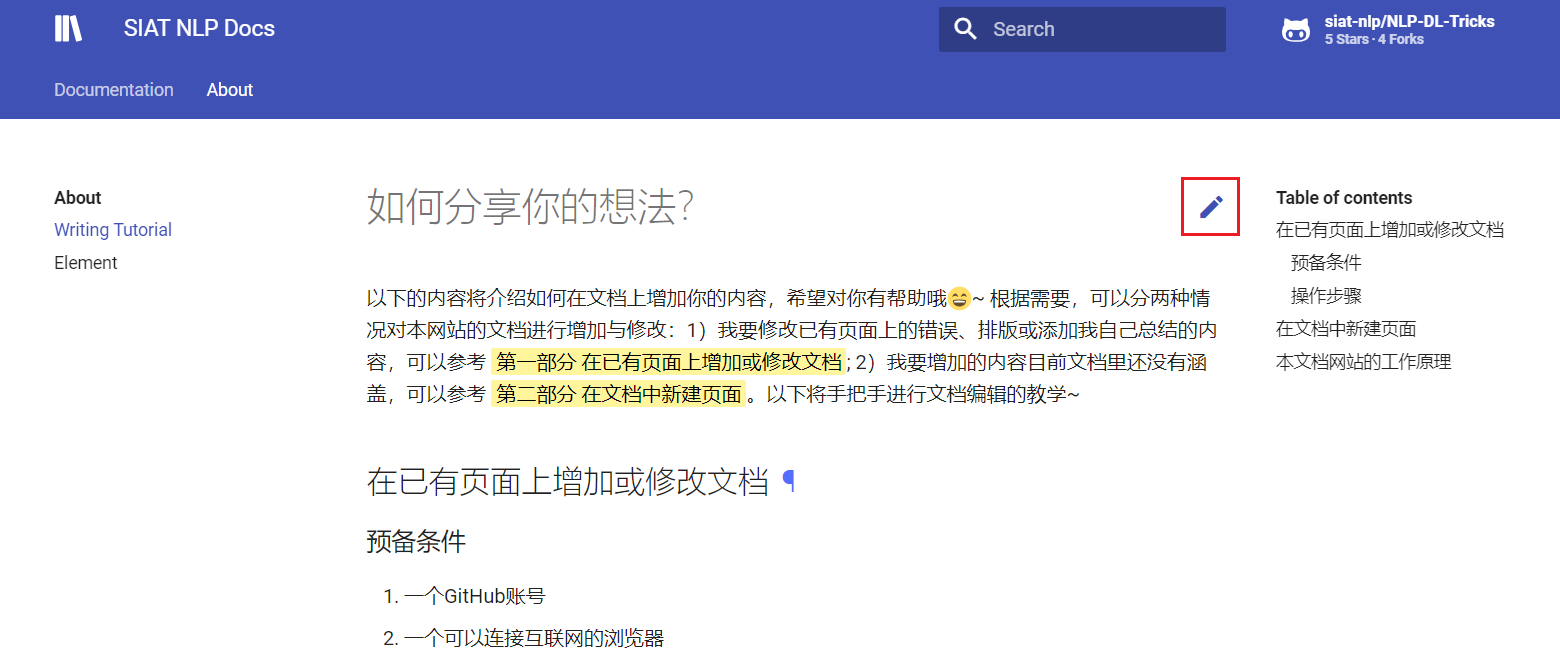
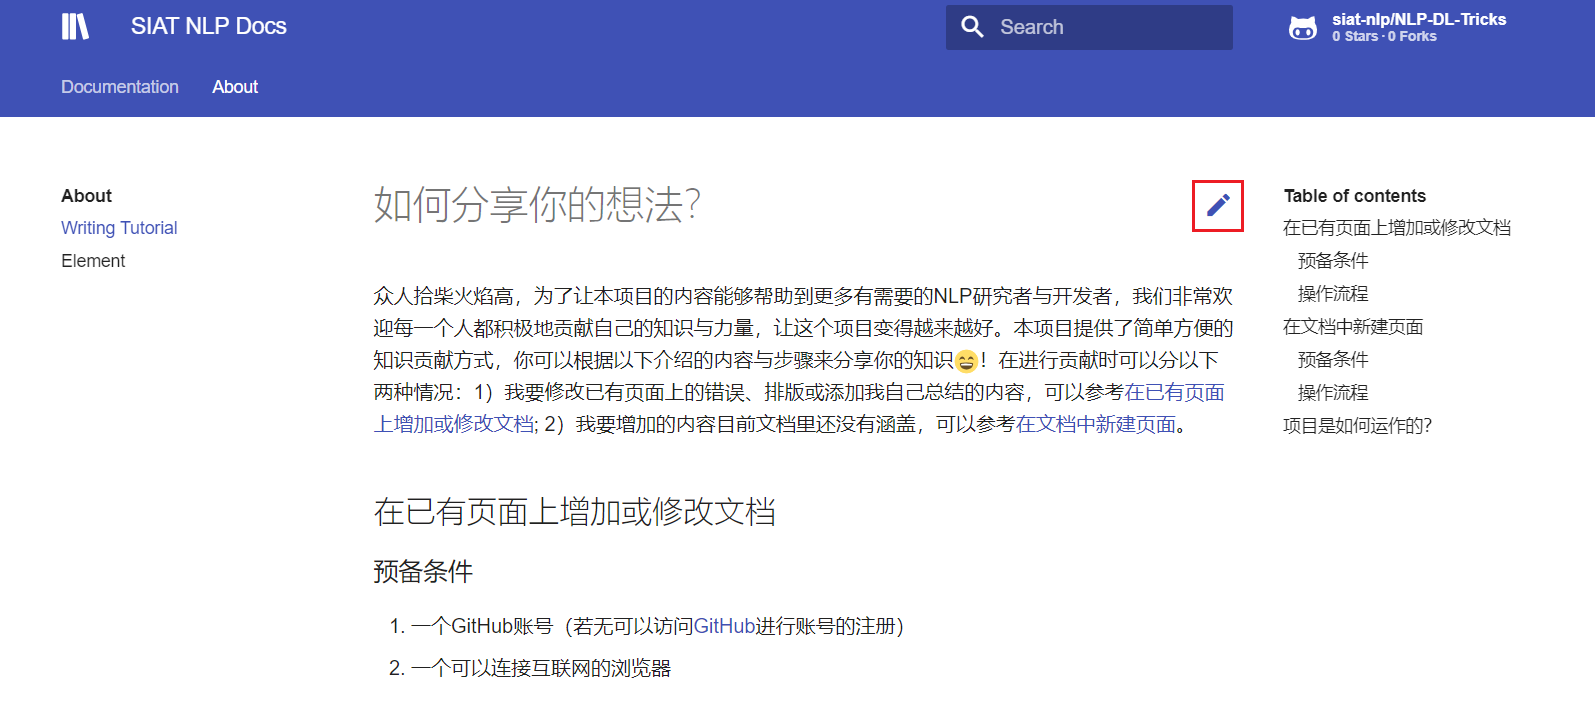
add tutorial

diff --git a/nlpdocument/docs/helper/index.md b/nlpdocument/docs/helper/index.md
@@ -11,20 +11,29 @@
 
 ![网页修改入口](img/01.png)
 
-点击这个铅笔按钮，
-```python
-import numpy as np
+点击这个铅笔按钮，可以看到我们跳转到了这个页面的md文件（见下图）。本网站使用了mkdocs进行文档的生成，因此我们只需编辑对应页面的md文件即可修改对应文档中的内容。
+
+![](img/02.png)
+
+我们点击上图中红框位置处的铅笔按钮，若提示你没有登录无法点击则需要使用GitHub账号进行登录，登录后即可点击该铅笔状按钮。此时将进入到md文件修改的页面（见下图）。
+
+![](img/03.png)
+
+进行文件编写时你必须使用md文件支持的markdown语法，有关markdown的基本语法可以参考前文中的已经存在的代码，相信聪明的你思考片刻就可以进行模仿编写了🤣，如果你需要一些参考资料可以查看[Markdown 语法说明](https://www.appinn.com/markdown/)。
+
+我们做一些简单的更改，在文件末尾添加以下一段代码：
+```
+!!! bug
+    Lorem ipsum dolor sit amet, consectetur adipiscing elit. Nulla et euismod
+    nulla. Curabitur feugiat, tortor non consequat finibus, justo purus auctor
+    massa, nec semper lorem quam in massa.
+
+    https://squidfunk.github.io/mkdocs-material/extensions/codehilite/#installation
+
+    https://squidfunk.github.io/mkdocs-material/extensions/admonition/
 ```
 
-dog | bird | cat
-----|------|----
-foo | foo  | foo
-bar | bar  | bar
-baz | baz  | baz
-
-$$
-\frac{n!}{k!(n-k)!} = \binom{n}{k}
-$$
+它的效果如下：
 
 !!! bug
     Lorem ipsum dolor sit amet, consectetur adipiscing elit. Nulla et euismod
@@ -35,9 +44,17 @@ $$
 
     https://squidfunk.github.io/mkdocs-material/extensions/admonition/
 
+可以看到，使用markdown语言可以轻松地编写出美观的文档，点击页面的 **Preview Changes** 可以直接看到修改的结果，方便我们查看是否存在语法错误。值得注意的是，本文档还支持markdown拓展功能，可以使用诸如：数学公式、语法高亮，高亮标注等等原生markdown不支持的功能，有关这一部分的详细内容请参考[Element](element.md)。
 
+当我们修改完成后，需要进行提交修改。滚动页面至底部，可以看到 **Propose file change** ，根据你的修改内容填写对应的描述，如下图所示。
 
+![](img/06.png)
 
+随后点击提交 **Propose file change** ，我们将会进入到最终的提交页面。
+
+![](img/07.png)
+
+在页面下方查看我们的修改无误后，点击 **Create pull request** ，将会把我们的修改内容汇报至文档编辑所在的仓库中。编辑部会进行内容的审核，一旦审核通过你很快就会在网页上看到你的贡献了！为了让我们编写的文档更加统一，我们还设定了一些文档的编写范式，可以进入[Writing Paradigm](Writingparadigm.md)进行查看。
 
 ## 在文档中新建页面
 ### 预备条件
